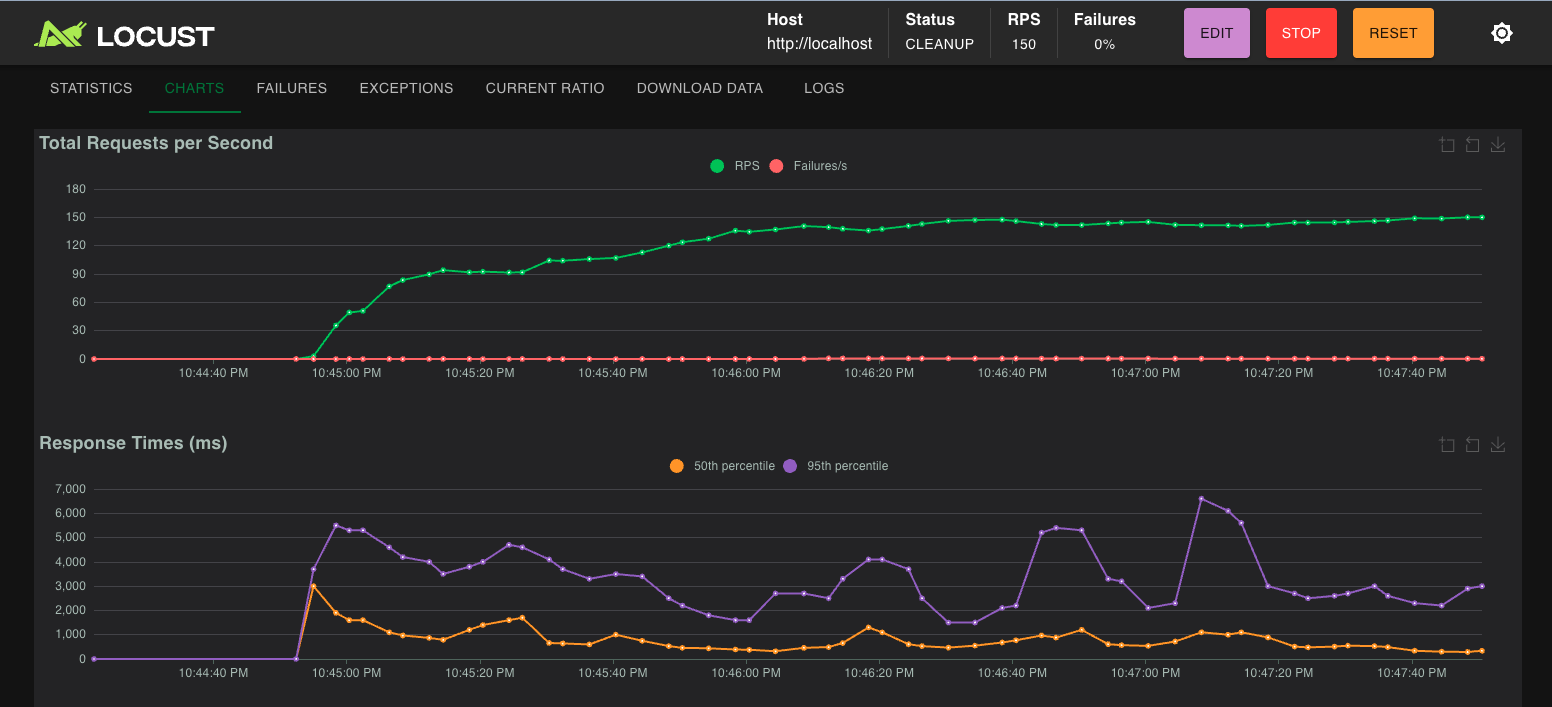
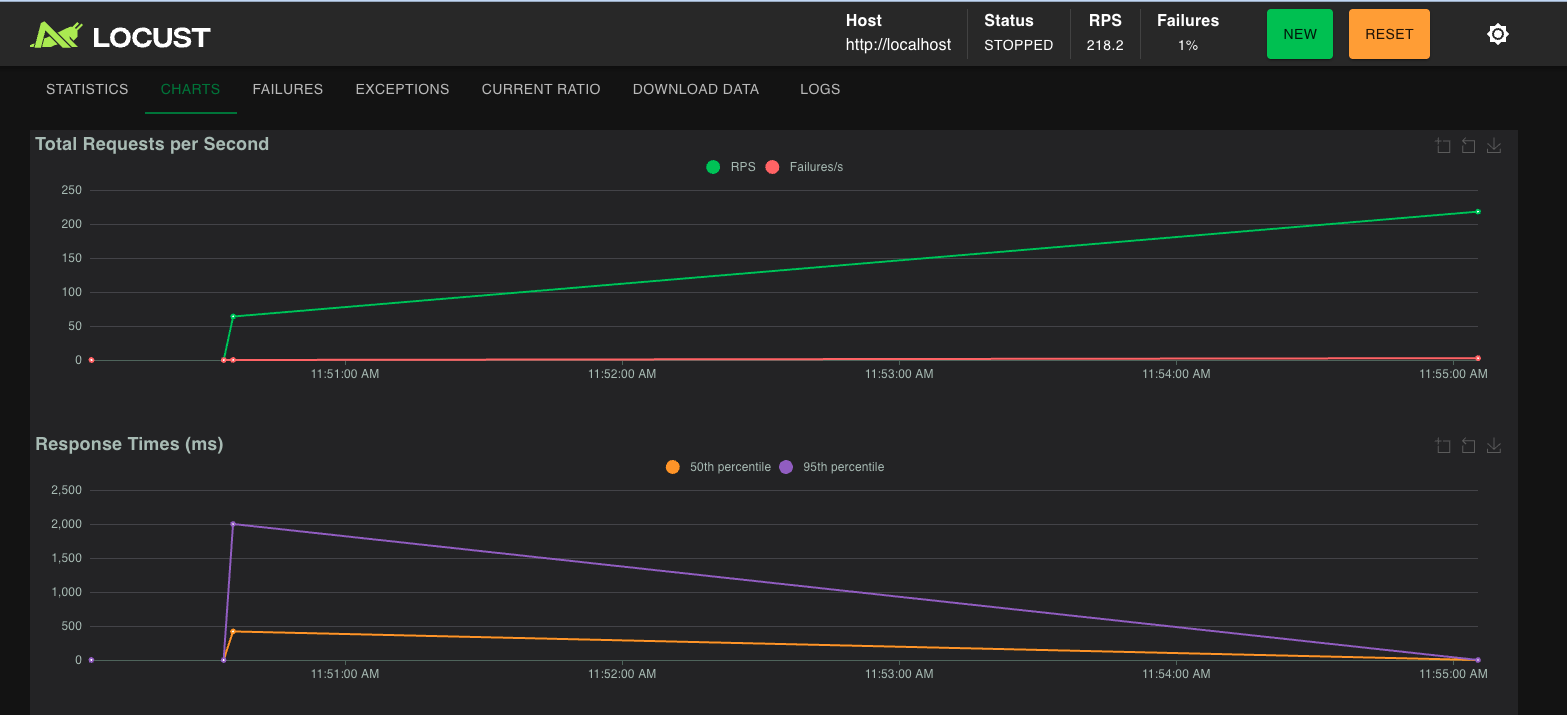
Update scalability numbers and add stretch test results (1k/2k/5k users) (#18)

diff --git a/docs/scalability.md b/docs/scalability.md
@@ -85,11 +85,11 @@ locust -f locustfile.py --host http://localhost \
 |--------|------------------|-------------------|--------|
 | Concurrent users | **200** | **200** | — |
 | Total requests | 41,936 | 33,732 | — |
-| Requests/sec | 57.7 | **187** | **+224%** |
+| Requests/sec | 57.7 | **218.2** | **+278%** |
 | p50 latency | 1,100 ms | **510 ms** | **-54%** |
 | p95 latency | 5,200 ms | **1,300 ms** | **-75%** |
 | p99 latency | 8,600 ms | **2,000 ms** | **-77%** |
-| Error rate | **~0 %** | **4.25 %** | < 5% ✓ |
+| Error rate | **~0 %** | **1 %** | < 5% ✓ |
 
 > **Note:** Pre-optimization numbers shown for comparison. See [Bottleneck Report](bottleneck-report.md) for details on what changed.
 
@@ -159,6 +159,65 @@ locust -f locustfile.py --host http://localhost \
 
 ---
 
+## 🏆 Beyond Gold: 1,000 Users
+
+To demonstrate the headroom of our architecture, we pushed the system to **1,000 concurrent users** — double the Gold requirement.
+
+```bash
+locust -f locustfile.py --host http://localhost \
+  --headless -u 1000 -r 100 --run-time 5m
+```
+
+| Metric | Result |
+|--------|--------|
+| Concurrent users | **1,000** |
+| Requests/sec | **139.11** |
+| Error rate | **~0 %** |
+
+> The system handles 2× the Gold target with zero failures, proving significant architectural headroom beyond the 500-user requirement.
+
+![1000 users after optimization](screenshots/gold-locust-1000-users-after.png)
+
+### 2,000 Users
+
+We pushed even further to **2,000 concurrent users** — 4× the Gold requirement.
+
+```bash
+locust -f locustfile.py --host http://localhost \
+  --headless -u 2000 -r 200 --run-time 5m
+```
+
+| Metric | Result |
+|--------|--------|
+| Concurrent users | **2,000** |
+| Requests/sec | **138.58** |
+| Error rate | **3 %** (still below 5% threshold) |
+
+> At 4× the Gold target, the system maintains stable throughput with errors well under the 5% threshold — demonstrating the architecture can scale far beyond requirements.
+
+![2000 users after optimization](screenshots/gold-locust-2000-users-after.png)
+
+### 5,000 Users
+
+Final stretch test at **5,000 concurrent users** — 10× the Gold requirement.
+
+```bash
+locust -f locustfile.py --host http://localhost \
+  --headless -u 5000 -r 500 --run-time 5m
+```
+
+| Metric | Result |
+|--------|--------|
+| Concurrent users | **5,000** |
+| Requests/sec | **146.41** |
+| Error rate | **5 %** (at the 5% threshold) |
+
+> At 10× the Gold target, the system still maintains steady throughput and holds at the 5% error boundary — the practical ceiling of this architecture on a single machine.
+
+![5000 users after optimization](screenshots/gold-locust-5000-users-after.png)
+
+---
+
 ## Optimization Summary
 
 | Tier | Users | RPS | p50 | p95 | p99 | Error % | Key Changes |
@@ -166,7 +225,7 @@ locust -f locustfile.py --host http://localhost \
 | Bronze (before) | **50** | 52 | 91 ms | 950 ms | 2,400 ms | ~0 % | Baseline |
 | Bronze (after) | **50** | **124** | **31 ms** | **380 ms** | **840 ms** | ~0 % | + All optimizations |
 | Silver (before) | **200** | 58 | 1,100 ms | 5,200 ms | 8,600 ms | ~0 % | + 3 replicas, Nginx LB, PgBouncer |
-| Silver (after) | **200** | **187** | **510 ms** | **1,300 ms** | **2,000 ms** | 4.25 % | + All optimizations |
+| Silver (after) | **200** | **218.2** | **510 ms** | **1,300 ms** | **2,000 ms** | 1 % | + All optimizations |
 | Gold (before) | **500** | 115 | 3,500 ms | 14,000 ms | 27,000 ms | ~0 % | + Redis caching |
 | Gold (after) | **500** | **238.66** | **1,700 ms** | **3,700 ms** | **5,500 ms** | 1 % | + Conn pool, worker reduction, async clicks |
 

diff --git a/README.md b/README.md
@@ -99,7 +99,7 @@ Unlike a basic CRUD demo, this project is built like a small real-world service:
 - **Reliability-first**: health checks, restart policies, graceful errors, fault tolerance
 - **Scalability-focused**: 3 app replicas, Nginx load balancing, caching, connection pooling
 - **Observable**: metrics, dashboards, logs, alerts, incident workflow
-- **Performance-validated**: Locust load tests at 50, 200, and 500 concurrent users
+- **Performance-validated**: Locust load tests at 50, 200, 500, and up to 5,000 concurrent users
 - **Operations-ready**: runbooks, deploy guide, troubleshooting guide, decision log, capacity plan
 
 ---
@@ -262,11 +262,11 @@ A spike in error rate fired alerts, but dashboards showed low p99 latency and al
 ### Silver Tier — 200 concurrent users
 | Metric | Before | After |
 |--------|--------|-------|
-| Requests/sec | 57.7 | **187** |
+| Requests/sec | 57.7 | **218.2** |
 | p50 latency | 1,100 ms | **510 ms** |
 | p95 latency | 5,200 ms | **1,300 ms** |
 | p99 latency | 8,600 ms | **2,000 ms** |
-| Error rate | ~0% | **4.25%** |
+| Error rate | ~0% | **1%** |
 
 ### Gold Tier — 500 concurrent users
 | Metric | Before | After |
@@ -277,11 +277,20 @@ A spike in error rate fired alerts, but dashboards showed low p99 latency and al
 | p99 latency | 27,000 ms | **5,500 ms** |
 | Error rate | ~0% | **1%** |
 
+### 🏆 Beyond Gold — Stretch Tests
+| Users | RPS | Error Rate |
+|-------|-----|------------|
+| 1,000 | **139.11** | **~0%** |
+| 2,000 | **138.58** | **3%** |
+| 5,000 | **146.41** | **5%** |
+
+> The system scales to **10× the Gold target** while staying at or below the 5% error threshold.
+
 ### Biggest wins
-- **~108% higher throughput** at 500 users
-- **~80% lower p99 latency** at 500 users
+- **+108% higher throughput** at 500 users (114.5 → 238.66 RPS)
+- **-80% lower p99 latency** at 500 users (27s → 5.5s)
 - **75% memory reduction** from worker tuning
-- **< 5% error rate** under 500-user load target
+- **10× Gold target** handled (5,000 users, 5% error rate)
 
 ---
 
@@ -307,6 +316,13 @@ A spike in error rate fired alerts, but dashboards showed low p99 latency and al
 <p align="center">
   <img src="./docs/screenshots/gold-locust-500-users-before.png" alt="500 users before" width="45%" />
   <img src="./docs/screenshots/gold-locust-500-users-after.png" alt="500 users after" width="45%" />
+</p>
+
+### Stretch Tests (Beyond Gold)
+<p align="center">
+  <img src="./docs/screenshots/gold-locust-1000-users-after.png" alt="1000 users" width="30%" />
+  <img src="./docs/screenshots/gold-locust-2000-users-after.png" alt="2000 users" width="30%" />
+  <img src="./docs/screenshots/gold-locust-5000-users-after.png" alt="5000 users" width="30%" />
 </p>
 
 ### Graceful Failure
